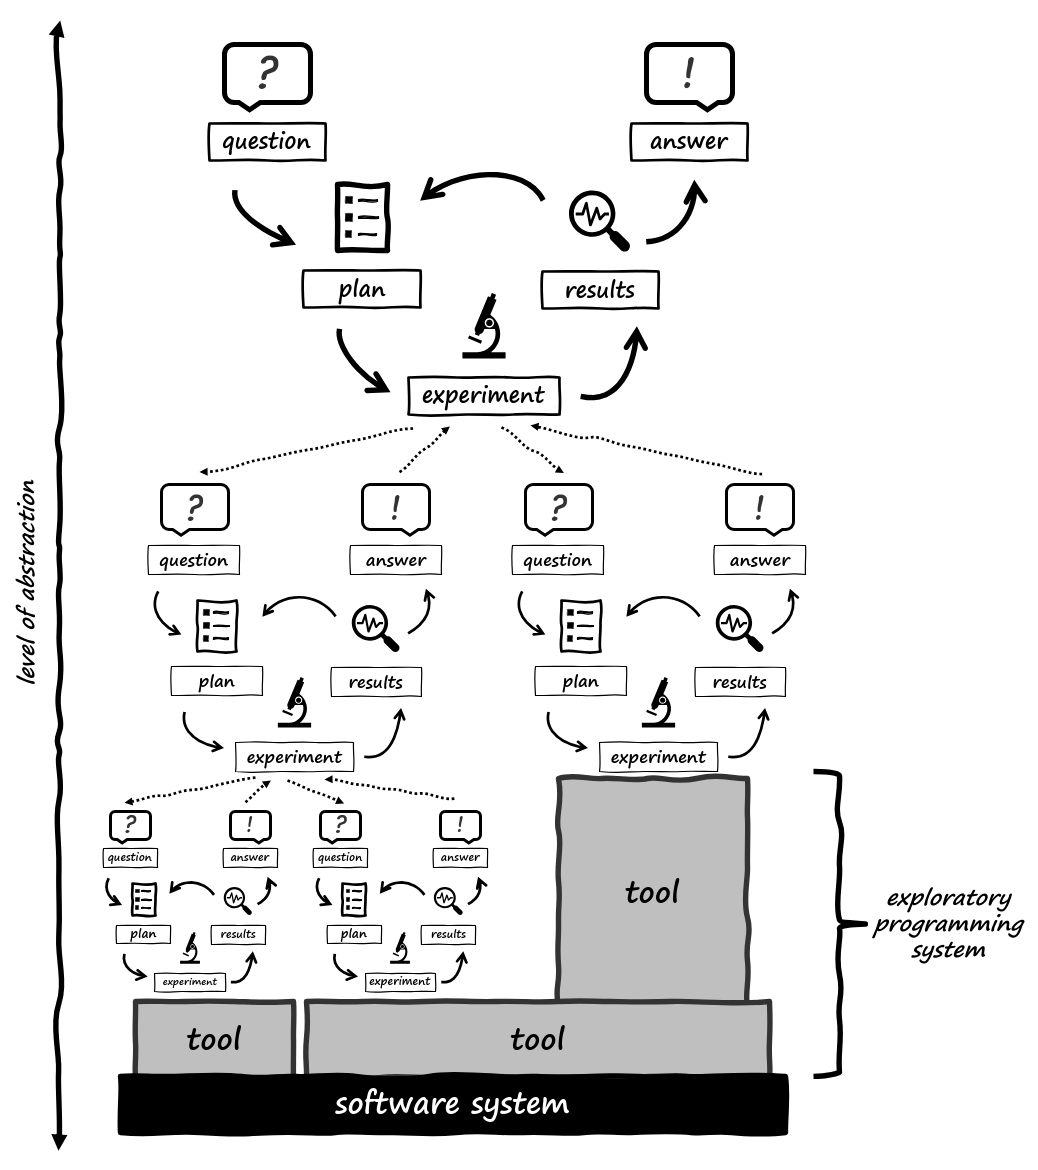
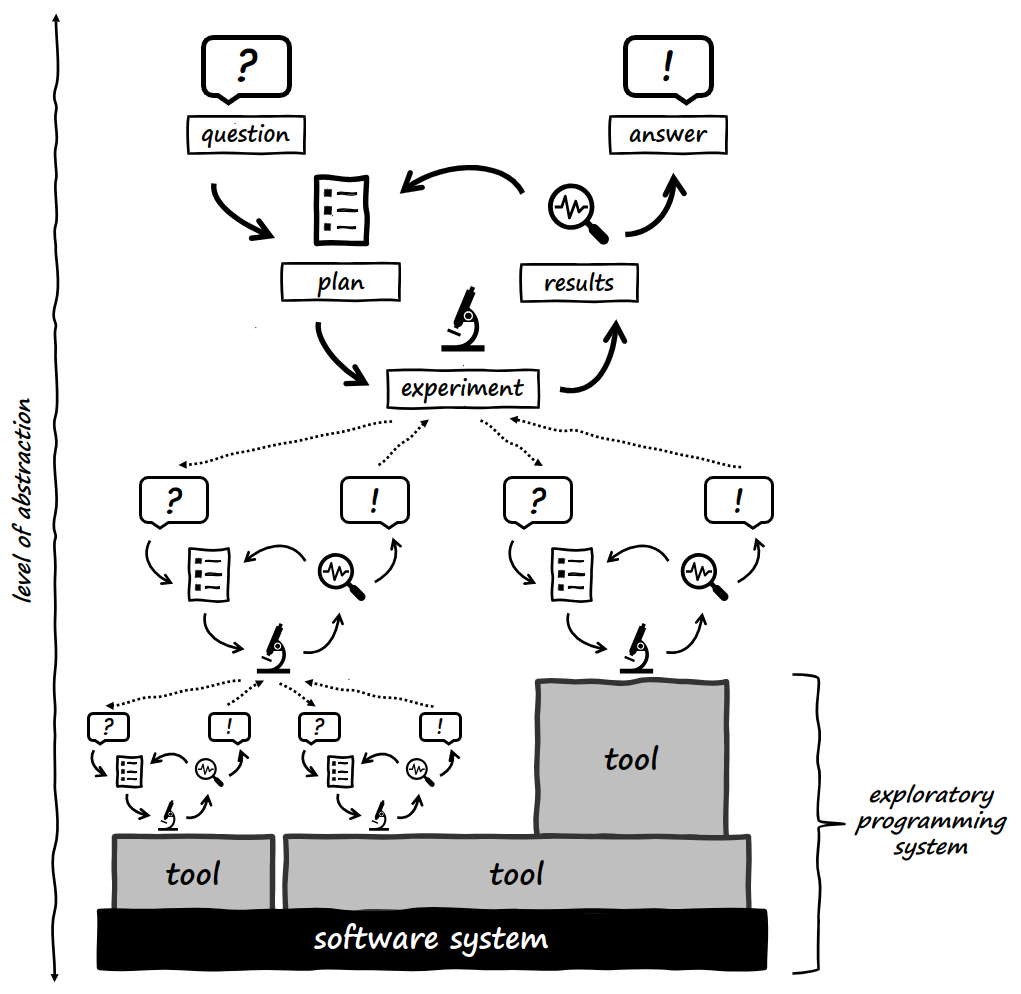
apply background feedback
* simplify complex process figure
* improve semtec introduction
* add semantics definition box
* minor edits

Changed region(s): [[0.0, 0.0, 0.7894, 0.998], [0.7894, 0.6549, 1.0, 0.9668], [0.5769, 0.7485, 0.668, 0.7797]]

diff --git a/thesis/chapters/02_background/04_semtec.tex b/thesis/chapters/02_background/04_semtec.tex
@@ -7,10 +7,23 @@ At the same time, different AI methods for information processing have gained po
 Concretely, we use the term \emph{semantic technologies} to refer two methods, namely \emph{semantic retrieval} using document embeddings and \emph{text generation} using LLMs.
 
 Both technologies approach the semantic information of textual data through the concept of \emph{embeddings}.
-An embedding is a numeric representation of a \emph{document} (such as a single word, a text, or also another artifact such as an image) through a high-dimensional vector whose components describe the relatedness of the document to different \emph{features}~\cite{mikolov2013efficient,devlin2019bert}.
-Features can represent arbitrary kinds of properties or topics, such as language, sentiment, or length, but in many settings, they are used to encode continuous combinations of various concepts through dimensional reduction.
+An embedding is a numeric representation of a \emph{document} (such as a single word, a (source) text, or also another embeddable object such as an image~\cite{dosovitskiy2021image}) through a high-dimensional vector whose components describe the relatedness of the document to different \emph{features}~\cite{mikolov2013efficient,devlin2019bert}.
+Features can represent arbitrary kinds of properties or topics, such as (programming) language, sentiment, or length, but in many settings, they are used to encode continuous combinations of various concepts through dimensional reduction.
 In this setting, the distance of two embeddings in the vector space indicates the similarity of their associated documents with regard to the employed concepts.
 This lays the foundation for performing different arithmetic operations to compare, organize, or sort documents in a given context.
+
+\begin{genericbox}{Approaching a definition}
+	\bold{\emph{What is semantics?}}
+
+	\emph{Semantics} (from Ancient Greek \emph{sēmantikós}, giving signs) refers to the significance or meaning of information in a document.
+	It is often opposed to its counterpart \emph{syntactics} (from Ancient Greek \emph{sýntaxis}, assembling together), %which describes the shallow or literal meaning of a document or a fragment thereof that can be inferred from its inner or surrounding grammatical structure.
+	which describes the structural arrangement and grammatical rules of a document or fragment thereof.
+
+	To understand the semantics of a document, a rational agent (whether human or machine) typically has to employ different kinds of \emph{context}: a comprehensive understanding of the used language(s), any surrounding information (such as an ongoing conversation or programming session), and relevant \emph{concepts} (ranging from common sense knowledge to domain-specific vocabulary).
+
+	In compiler theory, the term semantics is also used for \emph{semantic analysis}, which refers to a validation or error correction stage that comprises tasks such as scope resolution and type checking after a syntax tree has been produced in a former \emph{syntax analysis} or compiling stage.
+	However, in this work, we always use the terms syntax and semantics in the sense of the above definition.
+\end{genericbox}
 
 \subsection{The Transformer Architecture}
 
@@ -22,22 +35,23 @@ This lays the foundation for performing different arithmetic operations to compa
 		A high-level overview of the transformer architecture, which is used by many language models for translating text from one language (here: English) to another (here: Japanese).
 		The encoder computes embeddings for each input token and contextualizes them with each other.
 		The decoder sequentially generates the output text based on the input embeddings and the previous output prefix by contextualizing them together and predicting the next token.
-		\emph{Text embedding models} only employ the encoder component of a transformer, while many \emph{text generation models} only use the decoder and treat the input text as an output prefix instead.
+		\emph{Text embedding models} only employ the encoder component of a transformer, while many \emph{text generation models} only use the decoder and treat the input text as an output prefix instead (\textcolor{red}{red} arrow).
 	}
 	\label{fig:background/semtec/transformer}
 \end{figure}
 
-The language models that power these semantic technologies---\emph{embedding models} that compute embedding representations of documents and \emph{generative LLMs} that can produce plausible texts (usually referred to as shortly LLMs)---are commonly based on the \emph{transformer architecture}~\cite{vaswani2017attention}%
+The language models that power semantic technologies---\emph{embedding models} that compute embedding representations of documents and \emph{generative LLMs} that can produce plausible texts (usually referred to as shortly LLMs)---are commonly based on (different subsets of) the \emph{transformer architecture}~\cite{vaswani2017attention}%
 \footnote{
 	We acknowledge the existence of alternative architectures such as long-short term memory (LSTMs), latent semantic analysis (LSA), convolutional neural networks (CNNs), and hybrid approaches but restrict our focus in this short introduction to the transformer architecture, which is used predominantly in modern large general-purpose embedding and text generation models~\cite{oralkbekova2023contemporary}.
 }.
-Here, we provide a high-level overview of transformer models, focusing on their conceptual operating principles and deliberately omitting mathematical and technical details.
+Here, we provide a high-level overview of transformer models.
+As we intend to introduce a general notion of language models to the exploratory programming community, we focus on their conceptual operating principles and deliberately omit mathematical and technical details.
 
 From a macroscopic viewpoint, a transformer model employs several neural networks to translate a text from an input language into a text in an output language~(\cref{fig:background/semtec/transformer}).
-Possible languages include natural languages, programming languages, other formal languages, or (sequential representations of) multimedia data such as images.
+Possible languages include natural languages, programming languages, other formal languages, or (patchwise sequential representations of) multimedia data such as images~\cite{dosovitskiy2021image} or sounds~\cite{gong2021ast}.
 The model is usually trained by supervised learning using a set of input-output pairs.
-Internally, a transformer consists of two components: the \emph{encoder} and the \emph{decoder}:
-
+Internally, a full transformer consists of two components: the \emph{encoder} and the \emph{decoder}:
+%
 \begin{description}[noextralabelsep]
 	\item[The encoder] converts the input text into a sequence of \emph{contextualized token embeddings}.
 	For that, it first splits up the text into a sequence of tokens from a finite alphabet (such as words or parts of words) and embeds these tokens using a pre-learned lookup table.
@@ -51,12 +65,12 @@ Internally, a transformer consists of two components: the \emph{encoder} and the
 		However, in the sentence ``Squeak mouse'', the same token would be embedded closer to toy-related tokens such as ``noise'' or ``rubber''.
 	\end{example}
 
-	\item[The decoder] is invoked multiple times with a sequence of contextualized input token embeddings to \emph{infer} or generate a likely output text or a probability distribution of output texts.
+	\item[The decoder] is invoked multiple times with a sequence of contextualized input token embeddings to \emph{infer} (i.e., generate) a likely output text or a probability distribution of output texts.
 	At each invocation, the transformer predicts the next output token given the contextualized input embeddings and all previously generated output tokens.
 	It contextually enriches the previous output tokens and combines them with the input embeddings through a self- and cross-attentive stack similar as in the encoder.
 	From the contextually enriched output token embeddings, it selects the embedding next to the previous generated token and converts it into a probability distribution of tokens.
 	This process is repeated until the output sequence ends with a special end token.
-	Through a \emph{beam search}, the transformer can explore multiple paths of the probability tree instead of greedily only considering the most likely token at each step.
+	Through a \emph{beam search}, the transformer can explore multiple paths of the (usually infinite) probability tree of possible outputs instead of greedily only considering the most likely token at each step.
 
 	Text inference in the decoder can be configured through several hyperparameters that modify the probability distributions of output tokens:
 	for example, a \emph{temperature} factor and a \emph{nucleus sampling rate} can alter or truncate the variance of outputs, often associated with the creativity of the model~\cite{holtzman2020curious}; \emph{frequency penalties} can control the repetitiveness of outputs; or \emph{token biases} can prioritize particular tokens~\footnote{
@@ -72,32 +86,34 @@ In the following, we describe how transformers are used by embedding models for 
 \subsection{Semantic Retrieval with Embedding Models}
 \label{sec:background/semtec/retrieval}
 
-To compute a \emph{document embedding} (also referred to as \emph{sentence embedding} or \emph{text embedding}) of a text, models such as \name{BERT} (bidirectional encoder representations from transformers), \name{XLNet}, and \name{T5} use only the encoder component of transformers that was trained using self-supervised learning and aggregate the resulting embedding sequence into a single embedding vector~\cite{devlin2019bert,raffel2023exploring}.
+To compute a \emph{document embedding} (also referred to as \emph{sentence embedding} or \emph{text embedding}) of a text, models such as \name{BERT} (bidirectional encoder representations from transformers) %, \name{XLNet}, and \name{T5}
+use only the encoder component of transformers, which was trained using self-supervised learning, and aggregate the resulting embedding sequence into a single embedding vector~\cite{devlin2019bert,raffel2023exploring}.
 \emph{Semantic retrieval systems} (also referred to as \emph{vector databases} or \emph{vector stores}) compute and index document embeddings for objects such as web pages, files, or source code~\cite{lewis2020retrieval}.
 This allows them to efficiently perform a \emph{similarity search} in order to recommend semantically related objects to a given object.
 
 Semantic retrieval systems can also offer a more general form of \emph{semantic search} by taking a free-form query from a user, embedding it, and comparing it to the existing document embeddings.
-Based on the training of the embedding model, this can even yield useful results when query and documents are in different formats; to improve search quality, queries and documents can be transformed into a consistent representation through preprocessing prior to computing embeddings, e.g., by generating possible questions for documents or hypothetical relevant documents (\emph{hypothetical document embeddings}, \name{HyDE})~\cite{mao2021generation,gao2022precise} for questions using static heuristics or another language model.
+Based on the training of the embedding model, this can even yield useful results when query and documents are in different formats.
+For this, search quality can be improved by transforming queries and documents into a consistent representation through preprocessing prior to computing embeddings, e.g., by generating possible questions for documents or hypothetical relevant documents (\emph{hypothetical document embeddings}, \name{HyDE})~\cite{mao2021generation,gao2022precise} for questions using static heuristics or another language model.
 
-Other popular applications of document embeddings include clustering (grouping and anomaly detection) and classification (e.g., based on languages or sentiments).
+Other popular applications of document embeddings include clustering (for unsupervised grouping and anomaly detection) and classification (for supervised grouping, e.g., based on languages or sentiments).
 
 \subsection{Text Generation with LLMs}
 \label{sec:background/semtec/generation}
 
 Generative LLMs such as \name{GPT} (generative pre-trained transformer), \name{LLaMA}, and \name{PaLM} use only the decoder component of transformers:
-instead of encoding and transforming an input text, they treat it as a part of the output text and generate a likely completion of it~\cite{radford2018improving,openai2024gpt4}.
+instead of encoding and transforming an input text, they treat it as a part of the output text and generate a likely completion of that~\cite{radford2018improving,openai2024gpt4}.
 They are usually trained using a combination of self-supervised learning with large text corpora and reinforcement learning from human feedback (RLHF) to fine-tune completions~\cite{ouyang2022training}.
 
-One of the earliest practical applications of LLMs that had a wider impact on the programming community was integrated \emph{semantic code completion} tools such as GitHub Copilot, Tabnine, CodeWhisperer, and others~\cite{chen2021evaluating,barka2023grounded} that suggest additions to the code a programmer has typed in an editor.
+One of the earliest practical applications of LLMs that had a wider impact on the programming community was integrated \emph{semantic code completion} tools such as GitHub Copilot, Tabnine, CodeWhisperer, and others~\cite{chen2021evaluating,barka2023grounded} that suggest additions to the code a programmer has typed in an editor before.
 
 Beyond simple text completion, LLMs can also be trained to adhere to certain text formats and patterns and follow \emph{instructions} in the prompt, allowing the construction of specialized \emph{agents} with different characteristics:
-
+%
 \begin{description}[noextralabelsep]
 	\item[Conversational agents] engage in conversations with human \emph{users} by generating messages (that complete a conversation history) on behalf of a virtual \emph{assistant}~\cite{bai2022training}.
 	Optionally, \emph{system} messages can be used to provide further instructions to agents.
-	For example, OpenAI's ChatGPT, Google Gemini, or GitHub Copilot Chat allow users to write, edit, review, or summarize text or source code or discuss a wide range of topics through a chat interface~\cite{openai2024gpt4}.
+	For example, OpenAI's ChatGPT, Anthrophic Claude, or GitHub Copilot Chat allow users to write, edit, review, or summarize text or source code or discuss a wide range of topics through a chat interface~\cite{openai2024gpt4}.
 
-	\item[Autonomous agents] are instructed to generate \emph{inner monologues} that mimic structured thinking, resulting in basic capabilities for self-organized problem solving~\cite{yang2023autogpt}.
+	\item[Autonomous agents] are instructed to generate \emph{inner monologues} that mimic structured thinking, resulting in basic capabilities for self-organized problem solving such as a step-by-step analysis~\cite{yang2023autogpt}.
 
 	Additionally, they can be enabled via pre-training or instructions to access external systems through \emph{function calls}: an LLM emits a special output sequence that requests the invocation of a system function with a set of arguments, a handler executes this invocation and passes back the result with the text to the LLM, and the LLM continues the generation based on the result~\cite{hao2023toolkengpt,mialon2023augmented,yang2023autogpt}.
 	For instance, when presented with a mathematical word problem, GPT-4 can break down the task, plan a solution approach, and source out primitive arithmetic tasks to an external calculator function~\cite{openai2024gpt4}.
@@ -107,31 +123,38 @@ Beyond simple text completion, LLMs can also be trained to adhere to certain tex
 
 Being statistical models without an actual understanding of matters in human terms, LLMs suffer from several weaknesses such as limited logical reasoning, not adhering to instructions, and \emph{hallucinations} where false information is generated~\cite{openai2024gpt4}.
 To mitigate these problems in parts, several techniques have been established:
-
+%
 \begin{description}
 	\item[Fine-tuning:] Adjust the output style and behavior of models by training a base model on a curated set of positive examples of texts or conversations~\cite{kojima2022large,wei2022finetuned}.
 
-	\item[Prompt engineering:] Adjust the output style and behavior by strategically developing prompts and instructions that are most likely to influence models in an intended way~\cite{white2023prompt}.
-	For example, \emph{chain-of-thought} prompting instructs models to explicate their thoughts as inner monologue (``think out aloud'') or expressing upfront plans in a certain structure and has been shown to improve their problem-solving abilities~\cite{wei2023chainofthought}.
+	\item[Prompt engineering:] Adjust the output style and behavior by strategically developing prompts and instructions that are (more) likely to influence models in an intended way~\cite{white2023prompt}.
+	For example, \emph{chain-of-thought} prompting instructs models to explicate thoughts through inner monologue (``think out aloud'') or express upfront plans in a certain structure and has been shown to improve their problem-solving abilities~\cite{wei2023chainofthought}.
 
-	Other than fine-tuning, prompt engineering can be applied to any model without retraining, but the prompt must be presented to the LLM for each generation, affecting its performance~\cite{zhao2023survey}, and often several iterations are required to develop effective prompts~\cite{white2023prompt}.
+	Unlike fine-tuning, prompt engineering can be applied to any model without retraining, but the prompt must be presented to the LLM for each generation, often affecting its performance~\cite{zhao2023survey}\footnote{While it is possible to cache the contextualized input embeddings produced in the decoder, only few cloud-based LLMs such as Anthrophic Claude support this functionality through their API.}, and often several iterations are required to develop effective prompts~\cite{white2023prompt}.
 
-	\item[Retrieval-augmented generation (RAG):] To mitigate the limited abilities of LLMs to recall rarely seen information or provide them with new information, gather excerpts from external sources through traditional algorithms (such as database lookups and full-text searches) and include them in the prompt~\cite{lewis2020retrieval}.
+	\item[Retrieval-augmented generation (RAG):] To mitigate the limited abilities of LLMs to recall rarely seen information, or in order to provide them with new information, gather excerpts from external sources through traditional algorithms (such as database lookups and full-text searches) and include them in the prompt~\cite{lewis2020retrieval}.
 	This often includes semantic retrieval methods~(see \cref{sec:background/semtec/retrieval}).
 
-	For example, the Microsoft Copilot integration in Bing performs one or a few web searches based on the query of the user, feeds the result into the GPT-4 model, and instructs it to answer the query based on the provided information\footnote{
+	For example, the Microsoft Copilot integration in Bing performs one or a few web searches based on the query of the user, feeds the result into a GPT-4 model, and instructs it to answer the query based on the provided information\footnote{
 		Microsoft. 2023-11-21. \emph{How Copilot Works.}
 		URL:
 		%\url{https://www.microsoft.com/en-us/bing/do-more-with-ai/how-bing-chat-works} (accessed 2024-05-29)
 		\url{http://archive.today/2024.05.30-235455/https://www.microsoft.com/en-us/bing/do-more-with-ai/how-bing-chat-works}%
 		.
 	}.
-	Alternatively, agents can also proactively call functions to retrieve required information.
-	Thus, RAG reduces the challenge of information recall to filtering, contextualizing, and summarizing presented information or answering questions about it.
+	Alternatively, agents can proactively call functions to retrieve required information.
+	Thus, RAG moves the challenge of information recall from training a model to searching and using information that are presented in the prompt.
 \end{description}
 
 \ParSep
 
 Due to their foundations of machine learning methods, semantic technologies make it possible to process and synthetize information based on their context and semantics.
-We believe that this creates an opportunity to tackle the limitations of traditional exploratory programming systems which are restricted to technical interfaces at lower abstraction levels.
+We believe that this creates an opportunity to tackle the limitations of traditional exploratory programming systems, which are restricted to technical interfaces at lower abstraction levels.
+
+\begin{example}
+	A programmer seeks help at the scenario of building a UI prototype from \cpageref{ex:background/challenges}.
+	A traditional tool could support them merely by suggesting lexically related names or systematically testing all permutations or modifications of a code snippet.
+	On the other hand, a semantic tool could \emph{understand} the underlying intent of the programmer, find contextually relevant classes and names, apply them in plausible combinations, or research and fix runtime errors along the way autonomously.
+\end{example}
+
 By integrating semantic technologies into exploratory programming systems, we envision to provide wider-ranging, conceptual, and contextual support for programmers within their exploratory workflow.

diff --git a/thesis/chapters/02_background/02_expsys.tex b/thesis/chapters/02_background/02_expsys.tex
@@ -115,7 +115,7 @@ However, workspaces can also serve as a starting point for better integrated exp
 	Squeak's \emph{method finder} allows programmers to find unknown methods by specifying constraints over the inputs and outputs of message sends~\cite[sec.~1.8]{thiede2023squeak}%
 	\footnote{While Squeak does not include a symbolic execution engine at the time of writing, the method finder employs equivalent brute-force strategies to resolve the provided constraints.}%
 	\footnote{
-		An evolved version of Squeak's built-in method finder is available through the \name{SimulationStudio} package.
+		Another version of Squeak's built-in method finder, which supports more generic types of symbolic queries, is available through the \name{SimulationStudio} package.
 		Christoph Thiede: ``Method Finder 2.'' The general-purpose Squeak developers list, 2022-09-20. URL:
 		%\url{https://lists.squeakfoundation.org/archives/list/squeak-dev@lists.squeakfoundation.org/thread/N4OM3BYARXMOFDF4ONM7IZWR7727WU2M}.
 		\url{https://web.archive.org/web/20240630205751/https://lists.squeakfoundation.org/archives/list/squeak-dev@lists.squeakfoundation.org/thread/N4OM3BYARXMOFDF4ONM7IZWR7727WU2M/}

diff --git a/thesis/chapters/02_background/03_challenges.tex b/thesis/chapters/02_background/03_challenges.tex
@@ -26,6 +26,7 @@ the gulf of execution references the programmers' challenges to express their qu
 In exploratory programming, the gulf of execution typically includes activities such as planning and conducting experiments by using tools or writing code, while the gulf of evaluation contains tasks such as comprehending and summarizing technical outputs such as comprehensive lists or long and complex source code~\cite{rein2020empirical}.
 
 \begin{example}
+	\label{ex:background/challenges}
 	A programmer might wish to build a prototype to test a new UI concept (``How would this UI look and feel?'').
 	Despite they already have a good idea of the visual appearance, they are burdened with expensive implementation work:
 	they have to write syntactically valid code, browse the available packages and protocols of a UI framework to find required class and method names, and fix any bugs that they accidentally created in their implementation until they achieve a running prototype.
